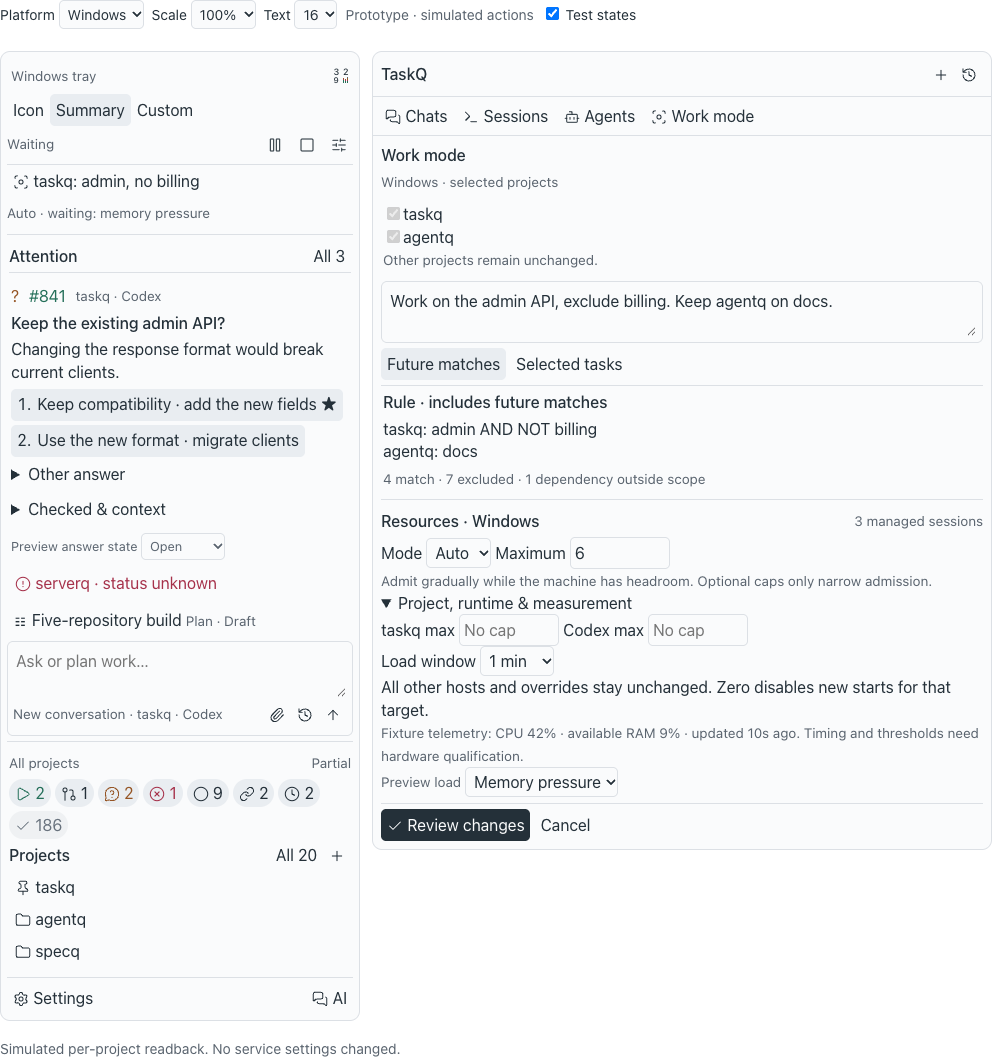
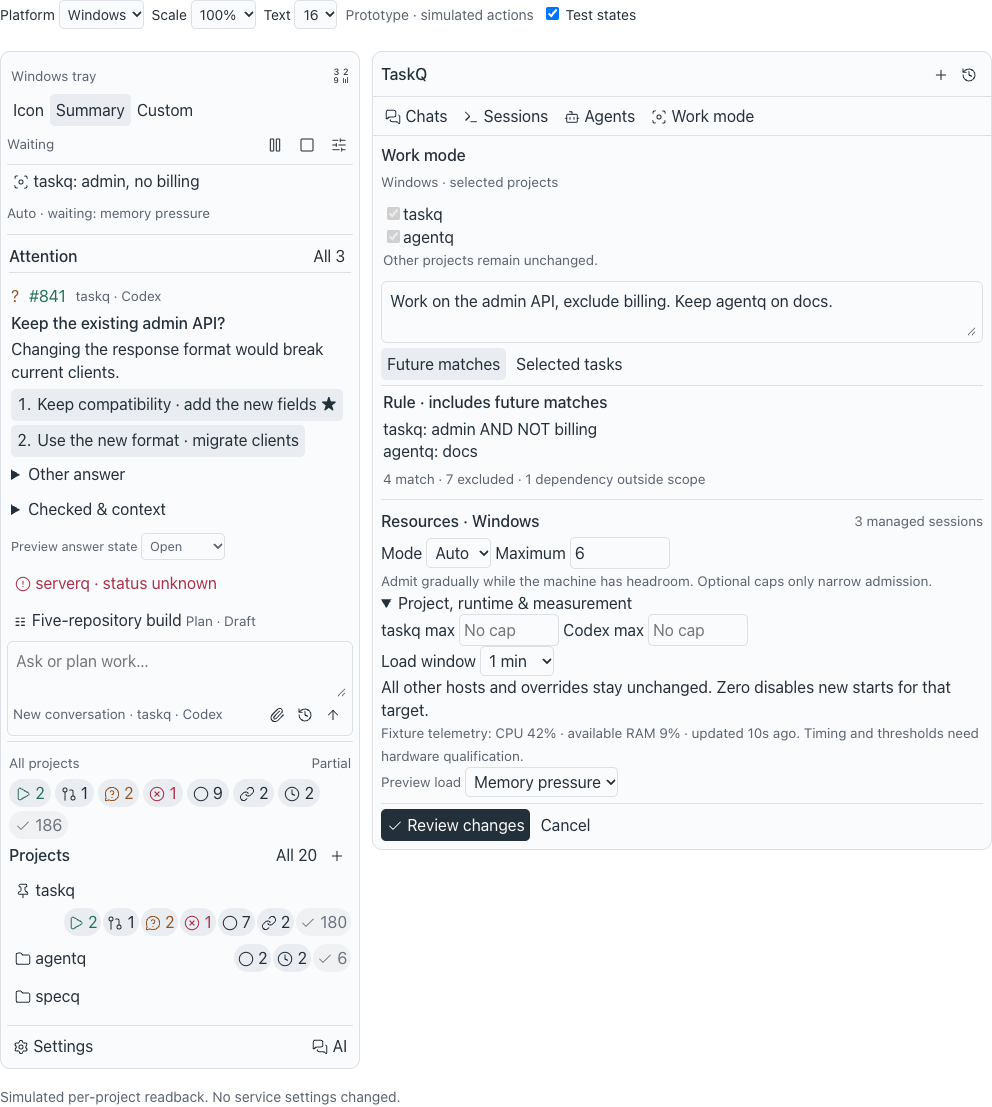
test(design): record current-main qualification and project counters

diff --git a/docs/design/verification.md b/docs/design/verification.md
@@ -300,3 +300,11 @@ Removed duplicate appearance view controls; shortened Chats/Sessions labels; mov
 Checks: seven browser suites passed (custom-icon, workspace, plans, resources/recipes, AI conversations, agent settings, agent behavior). Custom checks identical Summary/Custom pixels across five sizes and zero/large/unknown counts, draft isolation, apply/discard/revert, state restoration, invalid/overlapping configs and AI handoff. Cargo: 91 passed; selftest: 40 traces and formats passed, board read succeeded. Existing src/operator.rs:563 unused-Result warning remains.
 
 Visual inspection: final-home, final-work, custom-light and custom-dark. Checked navigation, readable actual-size samples versus labelled enlargement, narrow 20px wrapping and direct edit access. Native icons/windows and real agent rendering are not qualified by these browser images. Root contract: 294 lines; local links/config/build embedding and diff whitespace checks passed.
+
+## Project counters and publication qualification
+
+Restored project-scoped nonzero counters in pinned/recent and All projects; known all-zero rows contain only project identity. Unknown values remain explicit. Counter navigation binds both project and state. Added K-A7 and the ordered refactoring/API backlog.
+
+Integrated current origin/main without reverting its document cleanup or runtime fixes. Fresh validation: 93 Cargo tests and selftest (40 traces, formats and board read) passed. All eight browser suites passed, including project-counters, Custom, workspace, plans, resources, AI, Access and Delivery. Existing unused-Result warning remains. Project counter light/dark screenshots inspected at 16px and narrow 20px; counters wrap without losing the project name. Local documentation links and diff whitespace checked.
+
+This publishes specifications, prototype and implementation backlog. No native menu/backend rollout is claimed.
